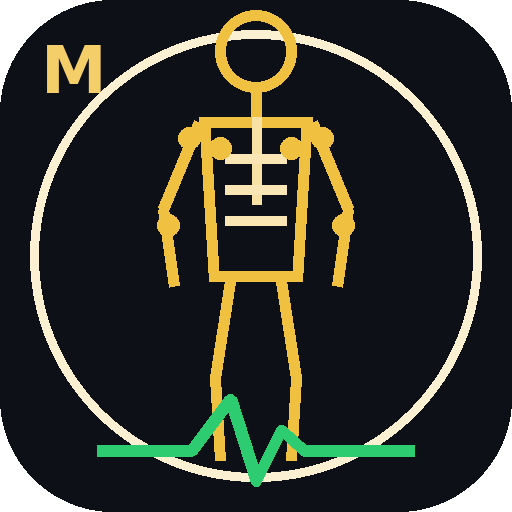
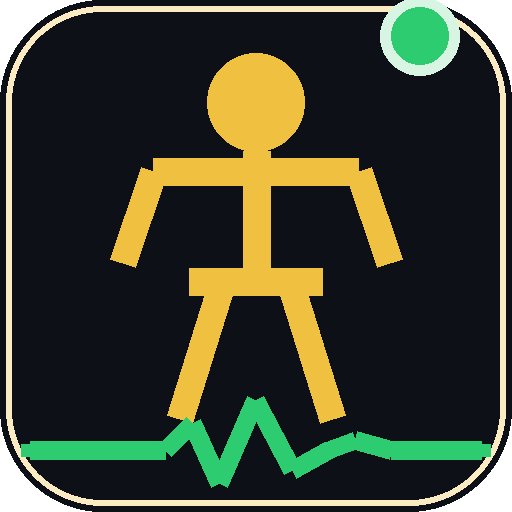
Add files via upload

Changed region(s): [[0.0, 0.0, 1.0, 1.0]]

diff --git a/index.html b/index.html
@@ -3,7 +3,24 @@
 <head>
 <meta charset="UTF-8">
 <meta name="viewport" content="width=device-width, initial-scale=1.0">
-<title>智能肌肉训练系统</title>
+<title>Muscle Map Pro</title>
+
+<!-- ── 图标 ── -->
+<link rel="icon" type="image/x-icon"    href="./favicon.ico">
+<link rel="icon" type="image/png" sizes="16x16"   href="./icon-16.png">
+<link rel="icon" type="image/png" sizes="32x32"   href="./icon-32.png">
+<link rel="icon" type="image/png" sizes="96x96"   href="./icon-96.png">
+<link rel="apple-touch-icon" sizes="180x180"      href="./icon-180.png">
+<link rel="apple-touch-icon" sizes="192x192"      href="./icon-192.png">
+
+<!-- ── PWA / 手机端全屏 ── -->
+<meta name="apple-mobile-web-app-capable"          content="yes">
+<meta name="apple-mobile-web-app-status-bar-style" content="black-translucent">
+<meta name="apple-mobile-web-app-title"            content="Muscle Map">
+<meta name="mobile-web-app-capable"                content="yes">
+<meta name="application-name"                      content="Muscle Map">
+<meta name="theme-color"                           content="#0d1117">
+<link rel="manifest"                               href="./manifest.json">
 
 <!-- Google Fonts -->
 <link rel="preconnect" href="https://fonts.googleapis.com">
